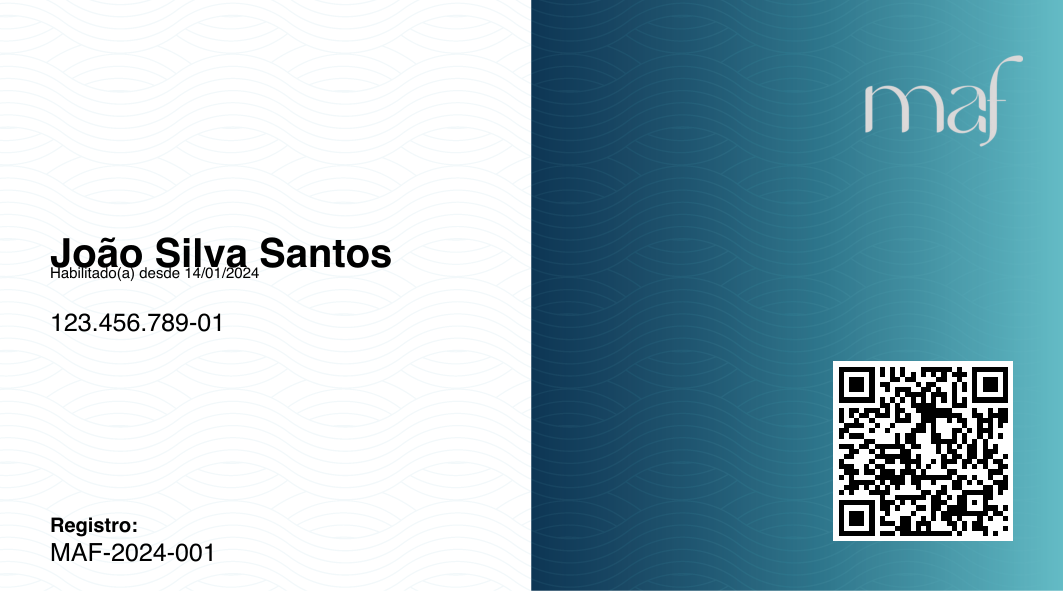
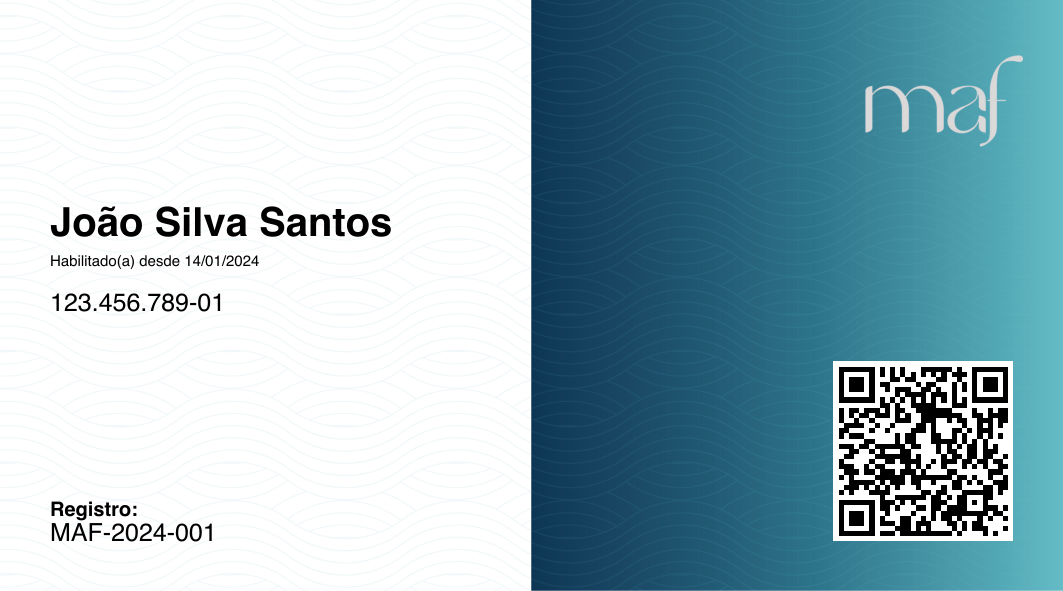
fix: corrigir posicionamento de texto em localhost
- Remover configuração textBaseline='top' que causava sobreposição
- Voltar para alinhamento padrão do Canvas (alphabetic baseline)
- Restaurar posicionamento original dos textos
- Manter compatibilidade com Vercel

Changed region(s): [[0.031, 0.335, 0.3725, 0.5787], [0.031, 0.8528, 0.2173, 0.9442]]

diff --git a/lib/pdf-generator.ts b/lib/pdf-generator.ts
@@ -83,7 +83,6 @@ export async function generateCardPNG(data: {
         // Textos com tamanhos específicos e centralizados verticalmente
         ctx.fillStyle = 'black'
         ctx.textAlign = 'left'
-        ctx.textBaseline = 'top'
 
         // Calcular posições com espaçamento personalizado
         const nameToDateSpacing = 30  // Espaçamento nome → data
@@ -228,7 +227,6 @@ export async function generateCardPNG(data: {
         // Adicionar código do usuário no canto inferior esquerdo
         ctx.fillStyle = 'black'
         ctx.textAlign = 'left'
-        ctx.textBaseline = 'top'
 
         // "Registro:" em negrito 20px - 50px das bordas esquerda e inferior
         ctx.font = 'bold 20px Helvetica'
